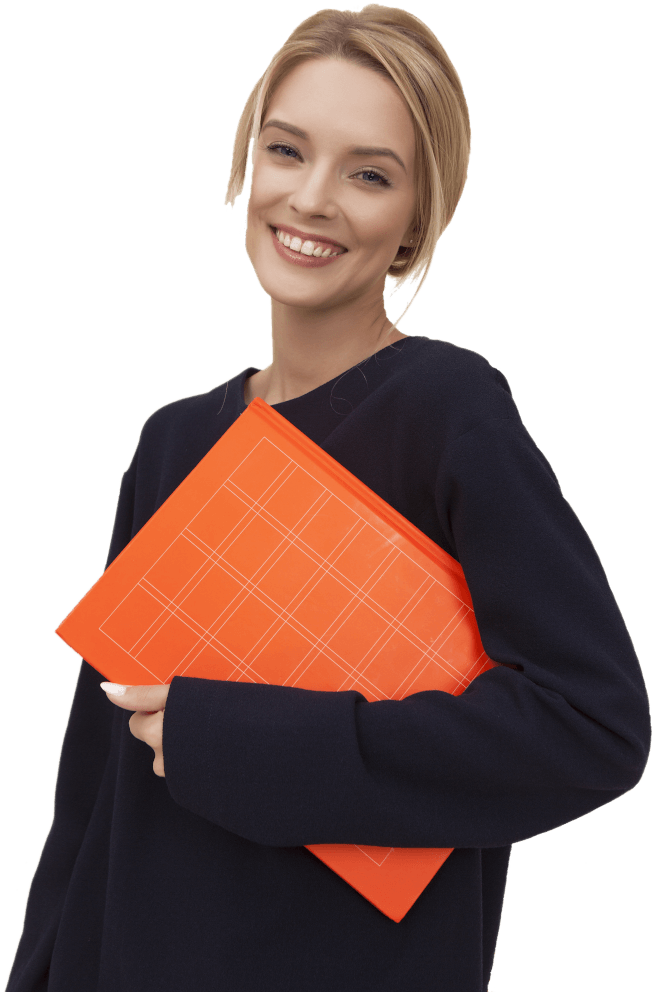
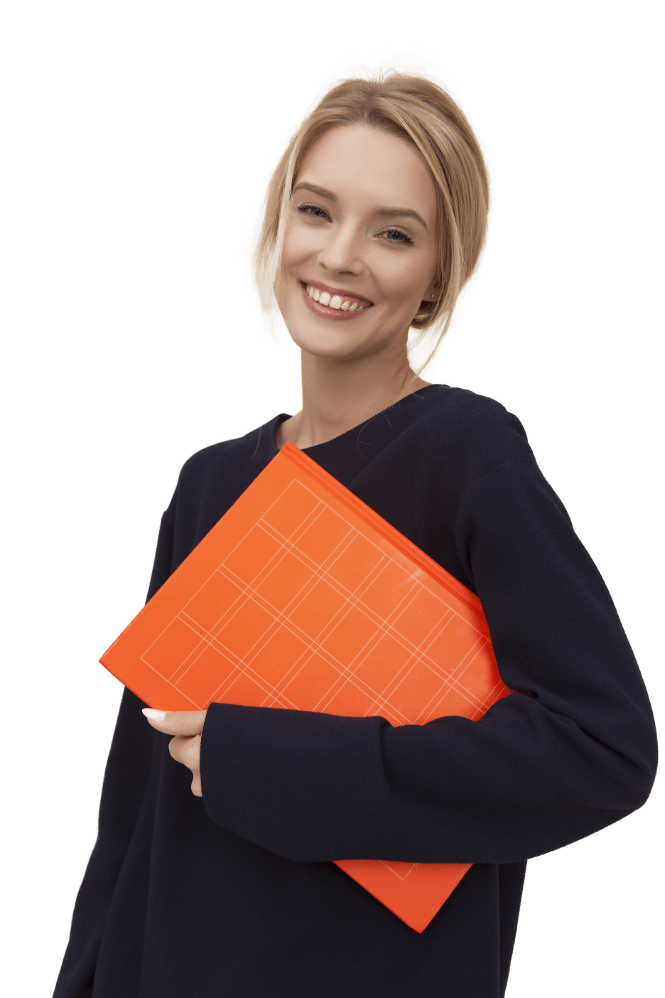
changes

diff --git a/src/components/PageElements/PageHeader/PageHeader.component.tsx b/src/components/PageElements/PageHeader/PageHeader.component.tsx
@@ -7,7 +7,7 @@ import * as img1 from '../../../images/header-bckg.jpg';
 import * as img2 from '../../../images/woman_title.png';
 import {Link} from 'react-router-dom';
 import {SearchFormComponent} from '../../SearchForm/SearchForm.component';
-import {getElementClass} from '../../../utils/oter.utils';
+import {getElementClass} from '../../../utils/other.utils';
 
 interface IPageHeaderProps {
     showMenu?: boolean;
@@ -39,14 +39,11 @@ export function PageHeaderComponent(props: IPageHeaderProps) {
 
                         <clipPath id="svgTextPath">
                             <text className="svg-text" x="715" y="300" textLength="520px" lengthAdjust="spacing"
-                                  fontSize="120px">Think
-                            </text>
+                                  fontSize="120px">Think</text>
                             <text className="svg-text" x="600" y="420" textLength="750px" lengthAdjust="spacing"
-                                  fontSize="140px">outside
-                            </text>
+                                  fontSize="140px">outside</text>
                             <text className="svg-text" x="660" y="500" textLength="630px" lengthAdjust="spacing"
-                                  fontSize="80px">of the box
-                            </text>
+                                  fontSize="80px">of the box</text>
                         </clipPath>
 
                         <filter id="txt-shadow">
@@ -75,14 +72,11 @@ export function PageHeaderComponent(props: IPageHeaderProps) {
                            clipPath="url(#svgTextPath)"/>
                     <text className="svg-text" x="715" y="300" textLength="520px" lengthAdjust="spacing"
                           fontSize="120px"
-                          filter="url(#txt-shadow)">Think
-                    </text>
+                          filter="url(#txt-shadow)">Think</text>
                     <text className="svg-text" x="600" y="420" textLength="750px" lengthAdjust="spacing"
-                          fontSize="140px" filter="url(#txt-shadow)">outside
-                    </text>
+                          fontSize="140px" filter="url(#txt-shadow)">outside</text>
                     <text className="svg-text" x="660" y="500" textLength="630px" lengthAdjust="spacing"
-                          fontSize="80px" filter="url(#txt-shadow)">of the box
-                    </text>
+                          fontSize="80px" filter="url(#txt-shadow)">of the box</text>
                 </svg>
                 <div className="header-content">
                     <nav className="app-navbar">
@@ -97,7 +91,7 @@ export function PageHeaderComponent(props: IPageHeaderProps) {
                         </ul>
                     </nav>
                 </div>
-                {/*<img className="title-image" src={img2} alt="smiling blond woman"/>*/}
+                <img className="image-overlay" src={img2} alt="smiling blond woman"/>
             </header>
         </React.Fragment>
     );

diff --git a/src/components/Pages/InfoPage/Info.page.tsx b/src/components/Pages/InfoPage/Info.page.tsx
@@ -7,6 +7,49 @@ export function InfoPage() {
             <div className="info-page">
                 <div className="selected-wrapper">
                     <h2 className="section-title">Info</h2>
+                    <div>
+                        Simple react page.
+
+                        This site is using following technologies:
+                        Typescript
+                        Webpack
+                        d3.js
+                        svg
+                        React + context api
+
+                        images:
+
+                        Photo by Andrea Piacquadio from Pexels
+                        https://www.pexels.com/pl-pl/zdjecie/ludzie-kobieta-biuro-dziewczyna-3808822/
+
+
+                        Photo by Moose Photos from Pexels
+                        https://www.pexels.com/pl-pl/zdjecie/blond-dziewczyna-folder-kobieta-1587009/
+
+
+                        Photo by bongkarn thanyakij from Pexels
+                        https://www.pexels.com/pl-pl/zdjecie/osoba-rece-ludzie-kobieta-3787818/
+
+
+                        Photo by Pixbay
+                        https://www.pexels.com/photo/view-of-high-rise-buildings-during-day-time-302769/
+
+
+                        Photo by Startup Stock Photos from Pexels
+                        https://www.pexels.com/pl-pl/zdjecie/biurka-biuro-coworking-firma-7070/
+
+
+                        Page template:
+                        https://psdfreebies.com/psd/agency-creative-website-template-free-psd/
+                        backup
+                        https://drive.google.com/drive/folders/0Bw2hu70L5Ye_RVNaYU5nclNjeUk?fbclid=IwAR0u35DNuAcPsO9LMIcLa10r8QSgoAchdLNN3_aG0vGe1JFu2A_z-FRU3Z0
+
+                        Other resources:
+
+                        React context api: https://www.toptal.com/react/react-context-api
+                        React typescript cheet sheet https://github.com/typescript-cheatsheets/react-typescript-cheatsheet
+                        D3 chart gallery https://www.d3-graph-gallery.com/index.html
+                    </div>
                 </div>
             </div>
         </React.Fragment>);

diff --git a/src/components/Pages/SearchPage/SearchResults.component.tsx b/src/components/Pages/SearchPage/SearchResults.component.tsx
@@ -1,6 +1,6 @@
 import * as React from 'react';
 import {Component, RefObject} from 'react';
-import {getUnsafeString} from '../../../utils/oter.utils';
+import {getUnsafeString} from '../../../utils/other.utils';
 
 interface ISearchResultsProps {
     setGoToSearchPage?: (b: boolean) => void;
@@ -10,19 +10,22 @@ interface ISearchResultsProps {
 
 
 export class SearchResultsComponent extends Component<ISearchResultsProps, any> {
-    inputRef: any;
+    inputRef: RefObject<HTMLInputElement>;
 
     constructor(props: any) {
         super(props);
-        this.inputRef = React.createRef<HTMLElement>();
+        this.inputRef = React.createRef<HTMLInputElement>();
     }
 
     componentDidMount() {
         this.props.setGoToSearchPage(false);
+        this.inputRef.current.value = getUnsafeString(this.props.searchText);
     }
 
-    componentDidUpdate() {
-        this.inputRef.current.value =getUnsafeString(this.props.searchText);
+    componentDidUpdate(prevProps: Readonly<ISearchResultsProps>) {
+        if (this.props.searchText!==prevProps.searchText) {
+            this.inputRef.current.value = getUnsafeString(this.props.searchText);
+        }
     }
 
     render() {
@@ -30,7 +33,7 @@ export class SearchResultsComponent extends Component<ISearchResultsProps, any> 
             <React.Fragment>
                 <div className="search-results-component">
                     <form className="search-form">
-                        <input type="text" className="search-text" ref={this.inputRef} defaultValue={''}/>
+                        <input type="text" className="search-text" ref={this.inputRef} defaultValue={this.props.searchText}/>
                         <button className="search-btn"><span>find</span></button>
                     </form>
                     {(this.props.results) && (this.props.results.length > 0) &&

diff --git a/src/components/Swiper/SwiperPanel.component.scss b/src/components/Swiper/SwiperPanel.component.scss
@@ -6,7 +6,7 @@
   width: 445px;
   height: 445px;
   position: absolute;
-  transition-duration: .3s;
+  transition-duration: .5s;
 
   .text-wrapper {
     position: absolute;
@@ -35,6 +35,7 @@
         left: -40px;
         position: absolute;
         border-top: 40px solid $background-black;
+        border-right: 5px solid $background-black;
         border-left: 40px solid transparent;
       }
 
@@ -46,6 +47,7 @@
         position: absolute;
         transform: translateX(40px);
         border-bottom: 40px solid $background-black;
+        border-left: 5px solid $background-black;
         border-right: 40px solid transparent;
       }
 
@@ -75,6 +77,7 @@
         left: -30px;
         position: absolute;
         border-top: 30px solid $background-red;
+        border-right: 5px solid $background-red;
         border-left: 30px solid transparent;
       }
 
@@ -87,6 +90,7 @@
         padding: 0 3px;
         transform: translateX(30px);
         border-bottom: 30px solid $background-red;
+        border-left: 5px solid $background-red;
         border-right: 30px solid transparent;
       }
 
@@ -116,7 +120,7 @@
   &.right {
     z-index: 50;
     top: 0;
-    right: 15%;
+    left: 50%;
     transform: scale(.6);
     opacity: .4;
 

diff --git a/src/app.tsx b/src/app.tsx
@@ -9,7 +9,6 @@ import {ChartsPage} from './components/Pages/ChatsPage/Charts.page';
 import {InfoPage} from './components/Pages/InfoPage/Info.page';
 import {OtherProvider} from './appContext/Other.provider';
 import {ChartsDetails} from './components/Pages/ChartDetails/ChartDetails.page';
-import {AboutPage} from './components/Pages/AboutPage/About.page';
 import {SearchResultsPage} from './components/Pages/SearchPage/SearchResults.page';
 import {OtherContext} from './appContext/other.context';
 
@@ -28,9 +27,6 @@ ReactDOM.render(
                             </Route>
                             <Route path="/info">
                                 <InfoPage/>
-                            </Route>
-                            <Route path="/about">
-                                <AboutPage/>
                             </Route>
                             <Route exact path="/">
                                 <HomePage toggleSplashScreenVisibility={context.actions.toggleSplashScreenVisibility}/>

diff --git a/src/components/SearchForm/SearchForm.component.tsx b/src/components/SearchForm/SearchForm.component.tsx
@@ -4,7 +4,7 @@ import {ChangeEvent, KeyboardEvent} from 'react';
 import {Key} from 'ts-key-enum';
 import {Redirect} from 'react-router';
 import {OtherContext} from '../../appContext/other.context';
-import {getSafeString} from '../../utils/oter.utils';
+import {getElementClass, getSafeString} from '../../utils/other.utils';
 
 export function SearchFormComponent() {
         return (
@@ -35,10 +35,6 @@ export function SearchFormComponent() {
 }
 
 function getInputClass(isVisible: boolean): string {
-    const className = 'search-input';
-    if (isVisible) {
-        return className + ' visible';
-    }
-    return className;
+    return getElementClass(isVisible, 'search-input', 'visible');
 }
 

diff --git a/src/components/PageElements/PageHeader/PageHeader.component.scss b/src/components/PageElements/PageHeader/PageHeader.component.scss
@@ -87,6 +87,15 @@
     }
   }
 
+  .image-overlay {
+    position: absolute;
+    bottom: 0;
+    right: 25%;
+    z-index: 500;
+    height: 70%;
+    width: auto;
+  }
+
 
   .header-content {
     @include set-to-zero;
@@ -97,15 +106,6 @@
     z-index: 2;
     top: 0;
     left: 0;
-
-    .title-image {
-      position: absolute;
-      display: none;
-      width: auto;
-      top: 10%;
-      left: 44%;
-      height: 90%;
-    }
 
     .app-navbar {
       @include block-border-box;
